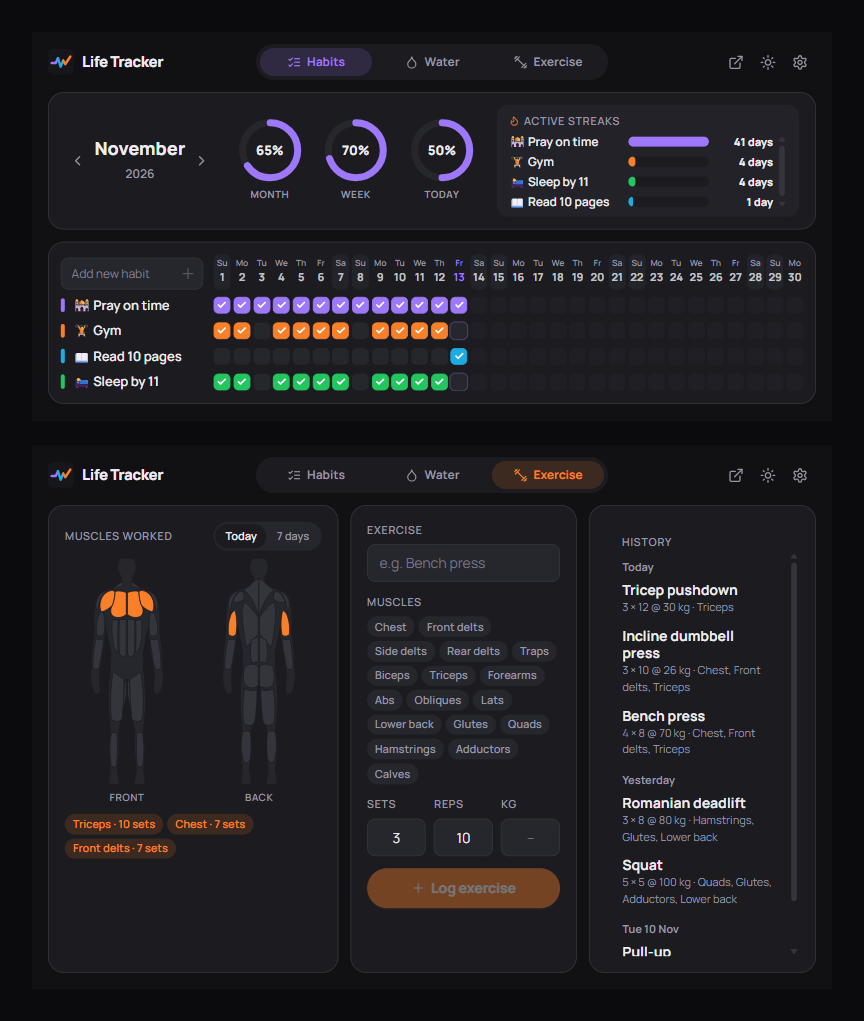
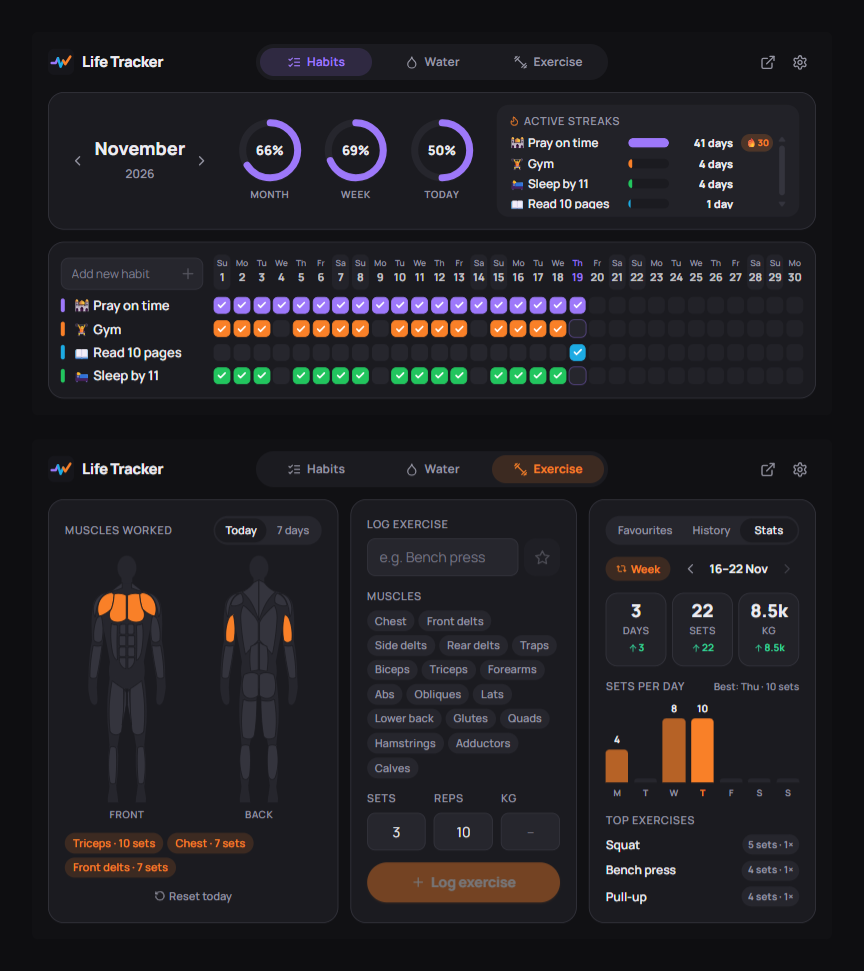
📝 docs: Refresh README, screenshot and social preview

diff --git a/README.md b/README.md
@@ -27,11 +27,12 @@ It started as two separate extensions: Hydration Hero (a water tracker) and a ha
 ## Features
 
 ### ✅ Habits
-- A landscape month grid (habits × days) for checking off daily habits, with emoji names and a colour per habit
+- A landscape month grid (habits × days) for checking off daily habits, with emoji names and a colour per habit; future days can be ticked ahead too
 - Month, week and today completion rings, plus an active-streaks panel
-- Current and best streaks, plus streak badges at 7, 21, 30, 66 and 100 days (with confetti)
+- Current and best streaks, plus streak badges at 7, 21, 30, 66 and 100 days (with confetti); badges count your whole history and show on the active-streaks panel
 - Habit lists are kept per month, so past months keep the habits you had then
-- A toolbar badge shows how many habits are left today
+- A compact two-column editor to rename, recolour, reorder or remove a habit and see its badges
+- A cyan toolbar badge shows how many habits are left today
 - Optional reminders at 8 PM or every hour, only while something is still unchecked
 
 ### 💧 Water
@@ -46,9 +47,13 @@ It started as two separate extensions: Hydration Hero (a water tracker) and a ha
 - Front and back male muscle map that highlights the muscles you worked today or over the last 7 days, shaded by sets
 - 60+ built-in exercises that fill in their muscle groups automatically; your own exercises are remembered
 - Click a muscle to filter your history, and re-log a past exercise in one click
+- A Favourites / History / Stats switch beside the log form keeps it compact
+- Stats: active days, sets and weight lifted per week, month or year, with a sets chart and your top exercises; step back through past periods
+- Reset today clears the day's log in two clicks
+- Star your weekly exercises as favourites and log each one in one click, with your latest sets, reps and weight
 
 ### General
-- Dark and light themes, and one design shared by all three tabs
+- Dark and light themes (in Settings), and one design shared by all three tabs
 - Open in a full browser tab for a bigger view
 - Export all data to a JSON backup file, and import it again (merge or replace)
 
@@ -79,14 +84,14 @@ To update later, pull the latest code, run `pnpm build` again, and click the rel
 
 ```bash
 pnpm dev      # app in a normal browser tab at localhost:5173 (uses localStorage)
-pnpm test     # unit tests (import converter, streak logic)
+pnpm test     # unit tests (import, streaks, badges, favourites, exercise stats)
 pnpm lint     # ESLint
 pnpm build    # production extension in build/
 ```
 
 Open `http://localhost:5173/?demo=1&tab=exercise` to load sample data. You can add `&theme=light` or `&view=tab`.
 
-Built with React 18, Vite 5, Tailwind CSS 3, React Icons (Lucide), canvas-confetti and the Manrope font. Chrome Manifest V3.
+Built with React 18, Vite 5, Tailwind CSS 3, React Icons (Lucide), canvas-confetti and the Manrope font. Chrome Manifest V3. Developed with [Claude Code](https://claude.com/claude-code).
 
 ## Project structure
 
@@ -100,9 +105,9 @@ src/
   components/          Shared UI kit, settings sheet, logo
   features/habits/     Habit grid, editor, streak logic
   features/water/      Water tank, glass sizes, history
-  features/exercise/   Log form, body map SVG, exercise catalogue
+  features/exercise/   Log form, body map SVG, catalogue, favourites, stats
   lib/                 Storage, dates, import/export, demo data
-docs/                  Screenshot
+docs/                  Screenshot and social preview
 ```
 
 ## License
